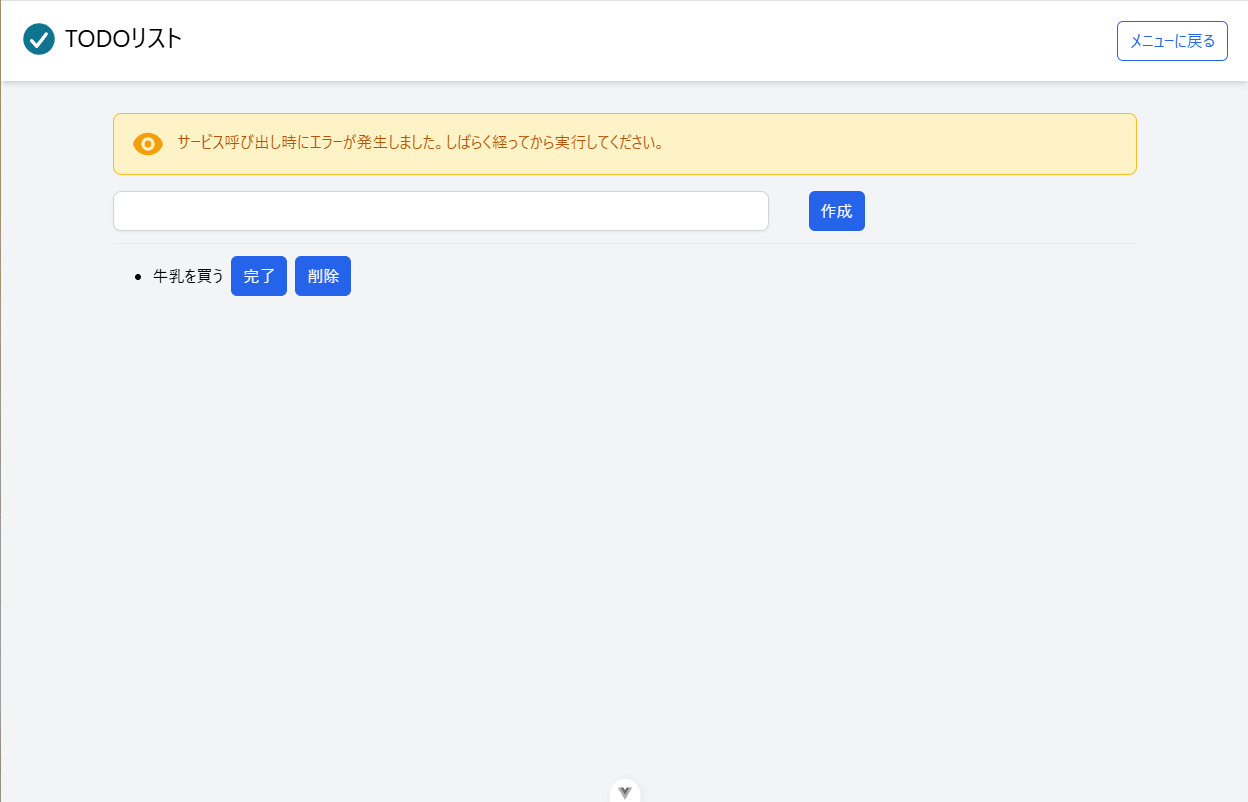
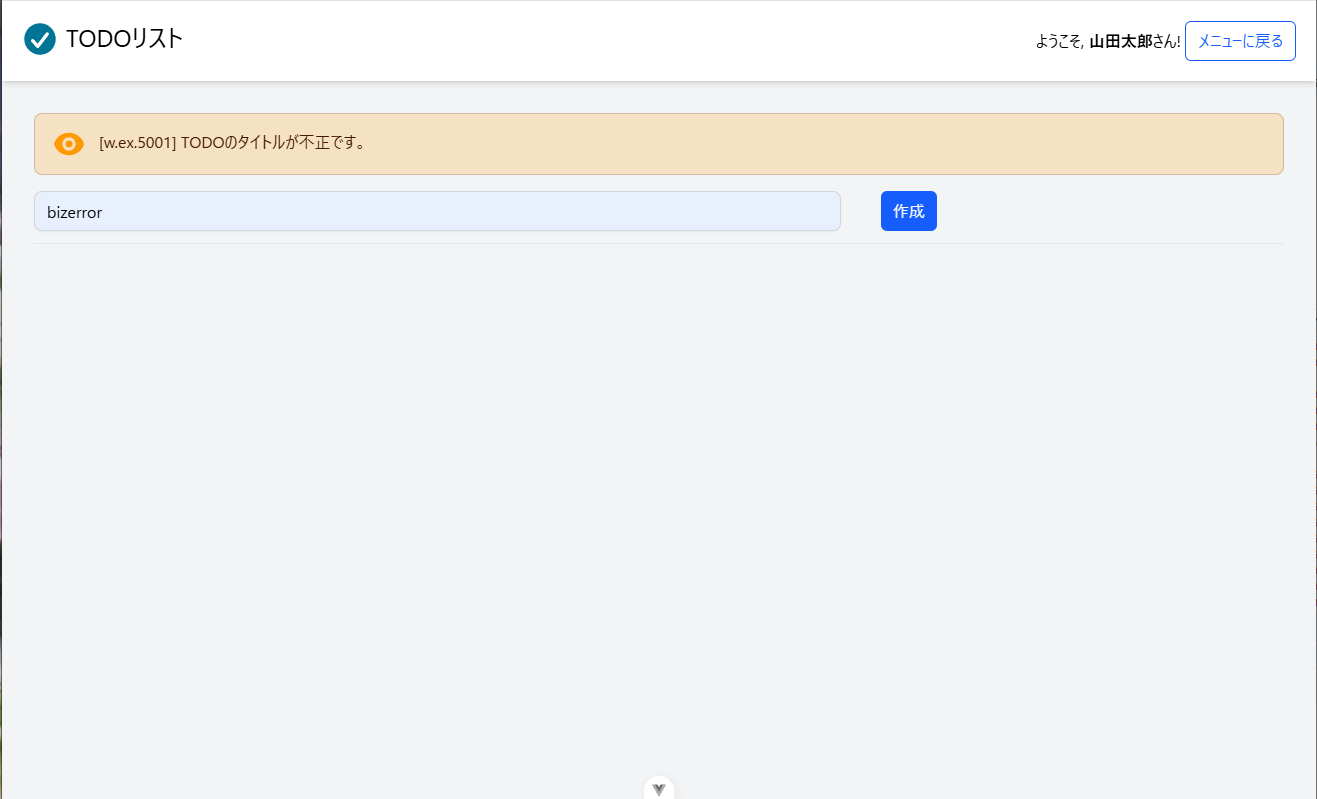
集約例外ハンドリングの実装

diff --git a/src/framework/httpclient/httpclient.ts b/src/framework/httpclient/httpclient.ts
@@ -1,4 +1,7 @@
 import axios, { type AxiosInstance, type AxiosRequestConfig, type AxiosResponse } from 'axios'
+import axiosRetry from 'axios-retry'
+import { BusinessError, SystemError } from '../errors'
+import { OtherError } from '../errors/errors'
 
 /**
  * HTTPクライアント機能を提供するクラス
@@ -10,14 +13,51 @@ export class HttpClient {
 
   private constructor() {
     this.axiosInstance = axios.create({
-      baseURL: import.meta.env.VITE_API_BASE_URL,
-      timeout: 10000,
+      baseURL: import.meta.env.API_BASE_URL,
+      timeout: import.meta.env.HTTP_CLIENT_TIMEOUT,
       headers: {
         'Content-Type': 'application/json',
       },
     })
 
-    //  TODO: axios-retryの設定追加
+    // リトライ対象のステータスコードを取得
+    const retryableStatusCodeStr = import.meta.env.RETRY_STATUS_CODES as string
+    const retryableStatusCodes = retryableStatusCodeStr?.split(',').map((code) => {
+      return Number(code.trim())
+    })
+
+    // レスポンスインターセプターを追加して、エラーハンドリングを行う
+    this.axiosInstance.interceptors.response.use(
+      (response) => {
+        // 成功時はそのままレスポンスを返す
+        return response
+      },
+      (error) => {
+        return Promise.reject(this.handleError(error))
+      },
+    )
+
+    // axios-retryの設定追加
+    axiosRetry(this.axiosInstance, {
+      retries: import.meta.env.RETRY_COUNT ?? 3, // リトライ回数
+      retryDelay: axiosRetry.exponentialDelay, // エクスポネンシャルバックオフを使用
+      retryCondition: (error) => {
+        return (
+          // ネットワークエラーまたは冪等性のあるリクエストが5xxエラーの場合にリトライ
+          axiosRetry.isNetworkOrIdempotentRequestError(error) ||
+          // 指定したステータスコードであればリトライ
+          (retryableStatusCodes
+            ? retryableStatusCodes.includes(error.response?.status ?? 0)
+            : false)
+        )
+      },
+      onRetry: (retryCount, error, requestConfig) => {
+        // リトライ時は警告ログを出力
+        console.warn(
+          `[${requestConfig.method?.toUpperCase()} ${requestConfig.url}] リトライ処理: ${retryCount}回`,
+        )
+      },
+    })
   }
 
   /**
@@ -85,5 +125,32 @@ export class HttpClient {
    */
   public delete<T>(url: string): Promise<AxiosResponse<T>> {
     return this.axiosInstance.delete<T, AxiosResponse<T>, never>(url)
+  }
+
+  // TODO: エラーハンドリングとバナーへのメッセージ表示処理の実現
+  private handleError(error: unknown): Error {
+    if (axios.isAxiosError(error)) {
+      // AxiosErrorの場合は、レスポンスのエラーメッセージを取得
+      const response = error.response
+      if (response) {
+        // TODO: エラーレスポンスデータの形式(code, message, details)をチェック
+
+        // TBD:401認証エラー
+        // TBD:403権限エラー
+        // それ以外の400系の場合は、サーバの入力エラーまたは業務エラー
+        if (response.status >= 400 && response.status < 500) {
+          return new BusinessError(response.data.code, response.data.message, response.data.details)
+        }
+        // 500系の場合は、システムエラー
+        return new SystemError(response.data.code, response.data.message, response.data.details)
+      } else {
+        // ネットワークエラー
+        return new OtherError(
+          'w.fw.9002',
+          'サービス呼び出し時にエラーが発生しました。しばらく経ってから実行してください。',
+        )
+      }
+    }
+    return new SystemError('e.fw.9001', '想定外のエラーが発生しました')
   }
 }

diff --git a/src/usecases/todo/views/TodoListView.vue b/src/usecases/todo/views/TodoListView.vue
@@ -15,7 +15,8 @@ import type { Todo } from '@/usecases/todo/models/todo'
 import TodoItem from '@/usecases/todo/views/TodoItem.vue'
 import { TodoServiceImpl } from '@/usecases/todo/services/todoService'
 //import { TodoRepositoryStub } from '@/usecases/todo/repositories/todoRepositoryStub'
-import { TodoRepositoryImpl } from '../repositories/todoRepositoryImpl'
+import { TodoRepositoryImpl } from '@/usecases/todo/repositories/todoRepositoryImpl'
+import { BusinessError } from '@/framework/errors'
 
 // Repository
 //const repository = new TodoRepositoryStub() //スタブ
@@ -59,11 +60,17 @@ const onValidSubmit = async () => {
     .then((result) => {
       todos.value = result
     })
-    .catch(() => {
-      //TODO: 業務エラーハンドリング、メッセージ取得
-      messageLevel.value = 'warn'
-      message.value =
-        'サービス呼び出し時にエラーが発生しました。しばらく経ってから実行してください。'
+    .catch((error) => {
+      // TODO: メッセージがBusinessErrorをうけとれるように修正
+
+      // 業務エラーの場合には、エラーメッセージを表示
+      if (error instanceof BusinessError) {
+        messageLevel.value = 'warn'
+        message.value = `[${error.code}] ${error.message}`
+        return
+      }
+      // それ以外のエラーの場合には、上位へ投げる
+      return Promise.reject(error)
     })
 }
 // 入力チェック失敗時

diff --git a/src/usecases/common/views/ErrorView.vue b/src/usecases/common/views/ErrorView.vue
@@ -1,0 +1,40 @@
+<script setup lang="ts">
+import LinkButton from '@/components/button/LinkButton.vue'
+import HeaderArea from '@/components/layout/HeaderArea.vue'
+import MainContainer from '@/components/layout/MainContainer.vue'
+import { onMounted, ref } from 'vue'
+import { useGlobalErrorStore } from '@/usecases/common/stores/GlobalErrorStore'
+import { SystemError } from '@/framework/errors'
+
+const globalErrorStore = useGlobalErrorStore()
+
+// エラーコード
+const errorCode = ref('')
+
+// エラーメッセージ
+const errorMessage = ref('')
+
+onMounted(() => {
+  // グローバルエラーのストアからエラーを取得
+  const error = globalErrorStore.error
+  if (error instanceof SystemError) {
+    // システムエラーの場合
+    errorCode.value = error.code
+    errorMessage.value = error.message
+    return
+  }
+  errorCode.value = 'e.ex.9001'
+  errorMessage.value = 'システムエラーが発生しました。'
+})
+</script>
+
+<template>
+  <HeaderArea title="システムエラー"></HeaderArea>
+  <MainContainer>
+    <div>
+      <h1 class="text-2xl">[{{ errorCode }}]{{ errorMessage }}</h1>
+      <p>管理者にお問い合わせください。</p>
+    </div>
+    <LinkButton class="mt-3" forward-view-name="home">トップページへ戻る</LinkButton>
+  </MainContainer>
+</template>

diff --git a/src/framework/errors/errors.ts b/src/framework/errors/errors.ts
@@ -1,0 +1,42 @@
+/**
+ * エラーコードを持つエラーを表すクラス
+ */
+class CodableError extends Error {
+  public readonly code: string
+  public readonly message: string
+  public readonly details?: string[]
+
+  constructor(code: string, message: string, details?: string[]) {
+    super(message)
+    this.code = code
+    this.message = message
+    this.details = details
+  }
+}
+
+/**
+ * 業務エラーを表すクラス
+ */
+export class BusinessError extends CodableError {
+  constructor(code: string, message: string, details?: string[]) {
+    super(code, message, details)
+  }
+}
+
+/**
+ * システムエラーを表すクラス
+ */
+export class SystemError extends CodableError {
+  constructor(code: string, message: string, details?: string[]) {
+    super(code, message, details)
+  }
+}
+
+/**
+ * その他エラー（警告エラー）を表すクラス
+ */
+export class OtherError extends CodableError {
+  constructor(code: string, message: string, details?: string[]) {
+    super(code, message, details)
+  }
+}

diff --git a/src/mocks/handler.ts b/src/mocks/handler.ts
@@ -25,6 +25,26 @@ export const handlers = [
   // TODOの登録
   http.post<never, Todo, never>('/bff-api/v1/todo', async ({ request }) => {
     const todo = (await request.json()) as Todo
+    // bizerrorの時は、業務エラーのレスポンスを返す
+    if (todo.title === 'bizerror') {
+      return HttpResponse.json(
+        {
+          code: 'w.ex.5001',
+          message: 'TODOのタイトルが不正です。',
+        },
+        { status: 400 },
+      )
+    }
+    // syserrorの時は、システムエラーのレスポンスを返す
+    if (todo.title === 'syserror') {
+      return HttpResponse.json(
+        {
+          code: 'e.ex.9002',
+          message: 'TODOサービスでシステムエラーが発生しました。',
+        },
+        { status: 500 },
+      )
+    }
     // 本来サーバ登録時に設定される値をクライアントでダミー値を設定
     todo.id = generateUUID()
     todo.finished = false

diff --git a/src/main.ts b/src/main.ts
@@ -7,6 +7,7 @@ import '@/style.css'
 import { setLocale } from 'yup'
 import * as ja from '@/usecases/common/messages/validationMessages'
 import { configure } from 'vee-validate'
+import globalErrorHandler from '@/usecases/common/errors/errorhandler'
 
 const app = createApp(App)
 
@@ -19,6 +20,9 @@ app.use(pinia)
 // ViewRouterの設定
 app.use(router)
 
+// 集約例外ハンドリング
+app.config.errorHandler = globalErrorHandler(router)
+
 // VeeValidateのエラーのグローバル設定
 configure({
   validateOnModelUpdate: false,
@@ -29,7 +33,7 @@ setLocale(ja.messages)
 // MSWの有効化
 // https://mswjs.io/docs/integrations/browser#conditionally-enable-mocking
 async function enableMocking() {
-  if (import.meta.env.MODE !== 'development') {
+  if (!import.meta.env.DEV) {
     return
   }
   const { worker } = await import('@/mocks/worker')

diff --git a/src/router/index.ts b/src/router/index.ts
@@ -1,8 +1,6 @@
 import { createRouter, createWebHistory } from 'vue-router'
 import { useAuthenticationStore } from '@/usecases/common/stores/authenticationStore'
 import LoginView from '@/usecases/login/views/LoginView.vue'
-import { AuthenticationServiceImpl } from '@/usecases/login/services/authenticationService'
-import { UserRepositoryImpl } from '@/usecases/common/repositories/userRepository'
 
 const router = createRouter({
   history: createWebHistory(import.meta.env.BASE_URL),
@@ -55,6 +53,12 @@ const router = createRouter({
           id: routes.params.id,
         }
       },
+    },
+    {
+      // エラーページ
+      path: '/error',
+      name: 'error',
+      component: () => import('@/usecases/common/views/ErrorView.vue'),
     },
   ],
 })

diff --git a/src/usecases/common/errors/errorhandler.ts b/src/usecases/common/errors/errorhandler.ts
@@ -1,0 +1,22 @@
+import type { Router } from 'vue-router'
+import { useGlobalErrorStore } from '@/usecases/common/stores/globalErrorStore'
+
+/**
+ * 集約例外エラーハンドラー
+ * @param router - Vue Routerのインスタンス
+ * @returns エラーハンドラー関数
+ */
+function globalErrorHandler(router: Router) {
+  return (err: unknown) => {
+    const globalErrorStore = useGlobalErrorStore()
+    // グローバルエラー用のストアにエラーをセット
+    globalErrorStore.setError(err)
+
+    // エラーページに遷移
+    router.push({
+      name: 'error',
+    })
+  }
+}
+
+export default globalErrorHandler

diff --git a/src/usecases/common/stores/globalErrorStore.ts b/src/usecases/common/stores/globalErrorStore.ts
@@ -1,0 +1,25 @@
+import { ref } from 'vue'
+import { defineStore } from 'pinia'
+
+/**
+ * 集約例外ハンドリングのエラーのストア
+ */
+export const useGlobalErrorStore = defineStore('globalError', () => {
+  const error = ref<unknown>(null)
+
+  /**
+   * エラーを設定する
+   * @param err
+   */
+  function setError(err: unknown) {
+    error.value = err
+  }
+  /**
+   * ストアをリセットする
+   */
+  function $reset() {
+    error.value = null
+  }
+
+  return { error, setError, $reset }
+})

diff --git a/src/framework/errors/index.ts b/src/framework/errors/index.ts
@@ -1,0 +1,1 @@
+export { BusinessError, SystemError } from './errors'
